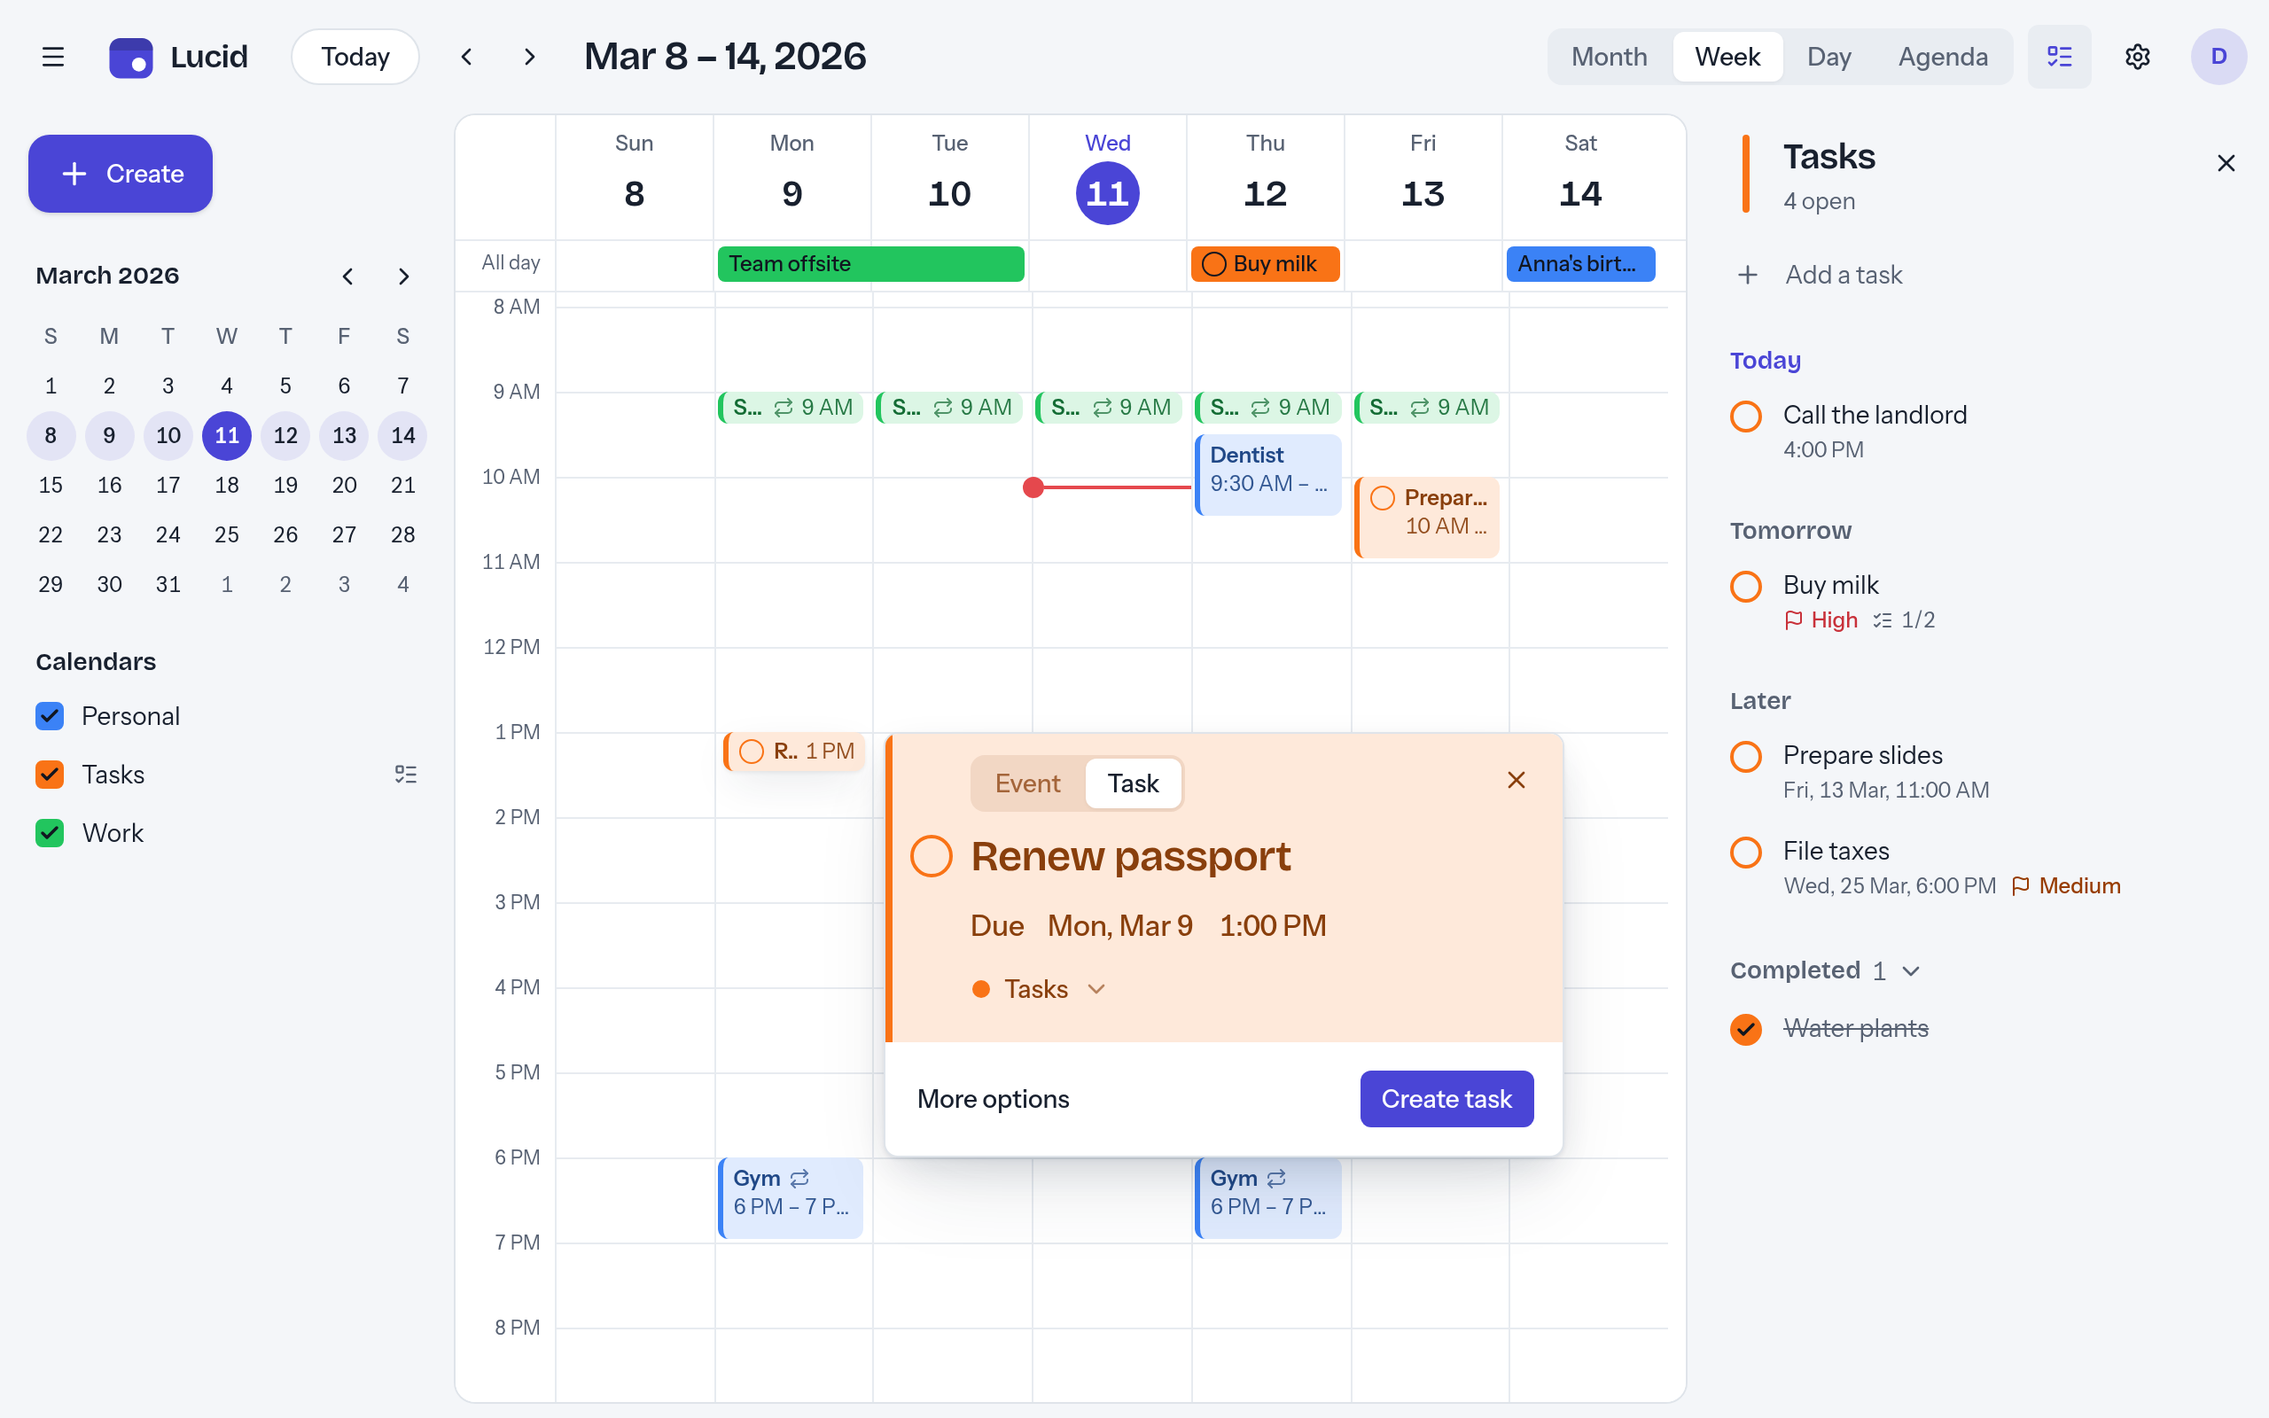
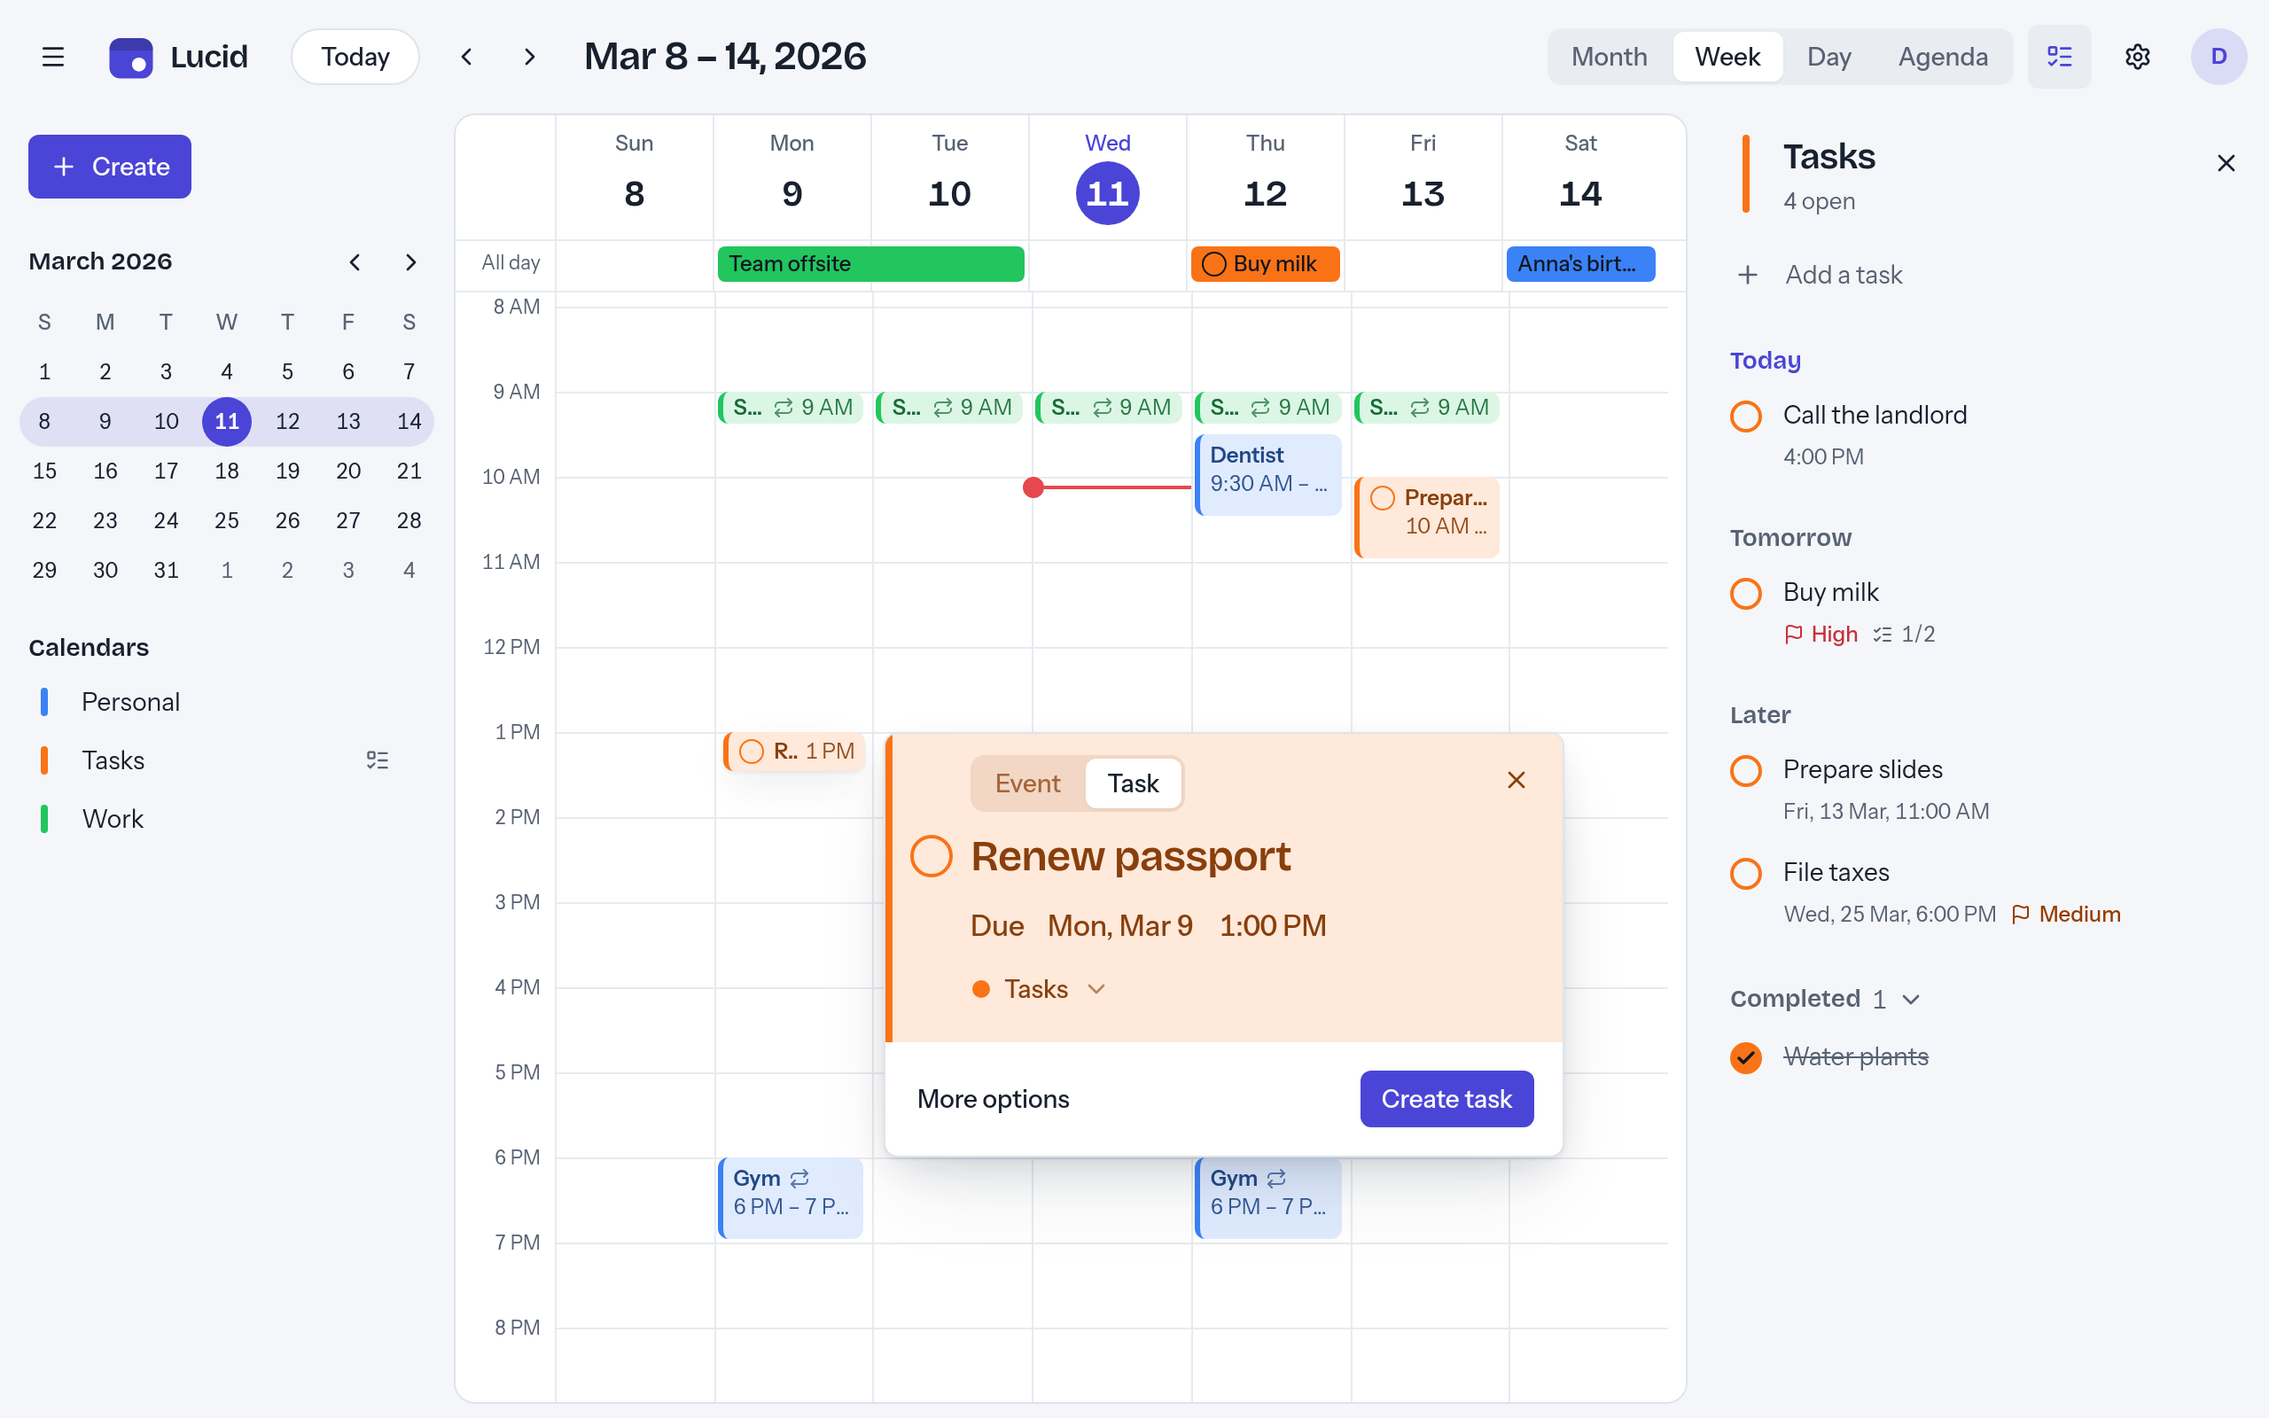
feat: redesign the calendar sidebar around each calendar's bar and the visible week
A calendar in the list leads with the bar its events carry in the grid,
in the column of the task checks, instead of a filled checkbox. A hidden
calendar fades its bar and name and shows a crossed-out eye, which a
visible one previews on hover; the toggle stays a native checkbox.

The mini month draws the visible week as one band whose caps wrap its
first and last day, and a single day in the day view as a circle.

Create is a regular button without a shadow, aligned with the rest of
the sidebar, and announces its key c.

diff --git a/web/src/components/layout/MiniMonth.tsx b/web/src/components/layout/MiniMonth.tsx
@@ -1,4 +1,4 @@
-import { addDays, addMonths, format, isSameDay, isSameMonth, isWithinInterval, startOfMonth } from 'date-fns'
+import { addDays, addMonths, format, isSameDay, isSameMonth, startOfMonth } from 'date-fns'
 import { ChevronLeftIcon, ChevronRightIcon } from 'lucide-react'
 import { useRef, useState, type KeyboardEvent } from 'react'
 import { flushSync } from 'react-dom'
@@ -9,6 +9,21 @@ import { weekdayNames, type FormatPrefs } from '@/lib/format'
 import { cn } from '@/lib/utils'
 
 const ARROW_STEPS: Record<string, number> = { ArrowLeft: -1, ArrowRight: 1, ArrowUp: -7, ArrowDown: 7 }
+
+type BandPart = 'start' | 'middle' | 'end' | 'single'
+
+/** A day's part of the band that marks the visible range in its week row, or undefined outside it. */
+function bandPart(week: Date[], i: number, range: DateRange | null): BandPart | undefined {
+  const inRange = (d: Date | undefined) => d !== undefined && range !== null && d >= range.start && d < range.end
+  if (!inRange(week[i])) return undefined
+  const first = !inRange(week[i - 1])
+  const last = !inRange(week[i + 1])
+  return first && last ? 'single' : first ? 'start' : last ? 'end' : 'middle'
+}
+
+// The band's caps wrap the circle of its first and last day (size-7, centered in the cell), so it starts and ends there.
+const BAND =
+  'flex justify-center data-[range]:bg-primary/12 data-[range=start]:justify-start data-[range=end]:justify-end data-[range=start]:ml-[calc(50%-0.875rem)] data-[range=start]:rounded-l-full data-[range=end]:mr-[calc(50%-0.875rem)] data-[range=end]:rounded-r-full data-[range=single]:mx-auto data-[range=single]:w-7 data-[range=single]:rounded-full'
 
 /**
  * Small month calendar: navigation in the sidebar, date picker in the event
@@ -25,7 +40,7 @@ export function MiniMonth({
   /** The chosen day (the view's date in the sidebar). */
   date: Date
   now: Date
-  /** Highlighted days (the visible week/day), or null. */
+  /** The visible week or day, drawn as one band like an event across its days; or null. */
   range: DateRange | null
   prefs: FormatPrefs
   /** Which day gets the solid mark: today (navigation) or the chosen day (picker). */
@@ -101,35 +116,35 @@ export function MiniMonth({
         <tbody>
           {weeks.map((week) => (
             <tr key={week[0] ? dayKey(week[0]) : 'w'}>
-              {week.map((d) => {
+              {week.map((d, i) => {
                 const today = isSameDay(d, now)
                 const chosen = isSameDay(d, date)
                 const solid = emphasis === 'today' ? today : chosen
-                const selected = range !== null && isWithinInterval(d, { start: range.start, end: new Date(range.end.getTime() - 1) })
                 return (
                   <td key={dayKey(d)} className="p-0">
-                    <button
-                      type="button"
-                      data-day={dayKey(d)}
-                      tabIndex={isSameDay(d, tabStop) ? 0 : -1}
-                      onKeyDown={onKeyDown}
-                      onClick={() => {
-                        setActive(d)
-                        onSelect(d)
-                      }}
-                      aria-label={format(d, 'PPPP', { locale: prefs.locale })}
-                      aria-current={today ? 'date' : undefined}
-                      aria-pressed={chosen}
-                      className={cn(
-                        'tabular mx-auto flex size-7 items-center justify-center rounded-full outline-none hover:bg-muted focus-visible:ring-2 focus-visible:ring-ring',
-                        !isSameMonth(d, shown) && 'text-muted-foreground',
-                        selected && !solid && 'bg-primary/10 font-medium text-foreground',
-                        today && !solid && 'font-semibold text-primary',
-                        solid && 'bg-primary font-semibold text-primary-foreground hover:bg-primary/90',
-                      )}
-                    >
-                      {format(d, 'd')}
-                    </button>
+                    <div data-range={bandPart(week, i, range)} className={BAND}>
+                      <button
+                        type="button"
+                        data-day={dayKey(d)}
+                        tabIndex={isSameDay(d, tabStop) ? 0 : -1}
+                        onKeyDown={onKeyDown}
+                        onClick={() => {
+                          setActive(d)
+                          onSelect(d)
+                        }}
+                        aria-label={format(d, 'PPPP', { locale: prefs.locale })}
+                        aria-current={today ? 'date' : undefined}
+                        aria-pressed={chosen}
+                        className={cn(
+                          'tabular flex size-7 items-center justify-center rounded-full outline-none hover:bg-muted focus-visible:ring-2 focus-visible:ring-ring',
+                          !isSameMonth(d, shown) && 'text-muted-foreground',
+                          today && !solid && 'font-semibold text-primary',
+                          solid && 'bg-primary font-semibold text-primary-foreground hover:bg-primary/90',
+                        )}
+                      >
+                        {format(d, 'd')}
+                      </button>
+                    </div>
                   </td>
                 )
               })}

diff --git a/web/src/components/layout/CalendarList.tsx b/web/src/components/layout/CalendarList.tsx
@@ -1,12 +1,16 @@
-import { CheckIcon, ListTodoIcon, LockIcon, type LucideIcon } from 'lucide-react'
+import { EyeOffIcon, ListTodoIcon, LockIcon, type LucideIcon } from 'lucide-react'
 import { useTranslation } from 'react-i18next'
 import { Spinner } from '@/components/ui/spinner'
 import { Tooltip, TooltipContent, TooltipTrigger } from '@/components/ui/tooltip'
 import { useCalendars } from '@/hooks/queries'
-import { readableTextColor } from '@/lib/color'
+import { cn } from '@/lib/utils'
 import { useSettings } from '@/stores/settings'
 
-/** Calendar list with color swatches and show/hide toggles (FR-04..06). */
+/*
+ * Calendar list with show/hide toggles (FR-04..06). A calendar leads with the
+ * bar its events carry in the grid; a hidden one fades its bar and name and
+ * shows the crossed-out eye, which a visible one previews on hover.
+ */
 export function CalendarList() {
   const { t } = useTranslation()
   const { data: calendars = [], isLoading, isError, refetch } = useCalendars()
@@ -14,7 +18,7 @@ export function CalendarList() {
   const toggle = useSettings((s) => s.toggleCalendar)
 
   return (
-    <section aria-labelledby="calendars-heading" className="px-3">
+    <section aria-labelledby="calendars-heading" className="px-2">
       <h2 id="calendars-heading" className="px-2 pb-1 font-display text-sm font-semibold">
         {t('calendars.title')}
       </h2>
@@ -39,7 +43,7 @@ export function CalendarList() {
           const visible = !hidden.includes(c.id)
           return (
             <li key={c.id}>
-              <label className="group flex cursor-pointer items-center gap-2.5 rounded-md px-2 py-1.5 text-sm hover:bg-muted has-[:focus-visible]:ring-2 has-[:focus-visible]:ring-ring">
+              <label className="group grid cursor-pointer grid-cols-[1.125rem_minmax(0,1fr)_auto] items-center gap-x-3 rounded-md px-2 py-1.5 text-sm hover:bg-muted has-[:focus-visible]:ring-2 has-[:focus-visible]:ring-ring">
                 <input
                   type="checkbox"
                   className="peer sr-only"
@@ -49,16 +53,25 @@ export function CalendarList() {
                   }}
                   data-testid={`calendar-toggle-${c.id}`}
                 />
-                <span
-                  aria-hidden
-                  className="flex size-4 shrink-0 items-center justify-center rounded-[4px] border-2"
-                  style={{ borderColor: c.color, backgroundColor: visible ? c.color : 'transparent' }}
-                >
-                  {visible && <CheckIcon className="size-3" strokeWidth={3.5} style={{ color: readableTextColor(c.color) }} />}
+                {/* In the column of the task checks, like the bar of the list in the task sidebar. */}
+                <span aria-hidden className="flex justify-center">
+                  <span
+                    className={cn('h-4 w-1 rounded-full transition-opacity', !visible && 'opacity-35')}
+                    style={{ backgroundColor: c.color }}
+                  />
                 </span>
-                <span className="min-w-0 flex-1 truncate">{c.name}</span>
-                {!c.supportsEvents && <StatusIcon icon={ListTodoIcon} label={t('calendars.tasksOnly')} />}
-                {c.readOnly && <StatusIcon icon={LockIcon} label={t('calendars.readOnly')} />}
+                <span className={cn('truncate', !visible && 'text-muted-foreground')}>{c.name}</span>
+                <span className="flex items-center gap-1.5">
+                  {!c.supportsEvents && <StatusIcon icon={ListTodoIcon} label={t('calendars.tasksOnly')} />}
+                  {c.readOnly && <StatusIcon icon={LockIcon} label={t('calendars.readOnly')} />}
+                  <EyeOffIcon
+                    aria-hidden
+                    className={cn(
+                      'size-3.5 shrink-0 text-muted-foreground',
+                      visible && 'opacity-0 group-hover:opacity-60 group-has-[:focus-visible]:opacity-60',
+                    )}
+                  />
+                </span>
               </label>
             </li>
           )

diff --git a/web/src/components/layout/MiniMonth.test.tsx b/web/src/components/layout/MiniMonth.test.tsx
@@ -45,4 +45,24 @@ describe('MiniMonth', () => {
     expect(chosen.className).toContain('bg-primary')
     expect(today.className).not.toContain('bg-primary')
   })
+
+  // The band's position on a day, read from the element behind its button.
+  const band = (name: string) => screen.getByRole('button', { name }).parentElement?.dataset.range
+
+  it('draws the visible week as one band from its first to its last day', () => {
+    const range = { start: new Date(2026, 2, 8), end: new Date(2026, 2, 15) }
+    render(<MiniMonth date={now} now={now} range={range} prefs={prefs} onSelect={vi.fn()} />)
+    expect(band('Saturday, March 7th, 2026')).toBeUndefined()
+    expect(band('Sunday, March 8th, 2026')).toBe('start')
+    expect(band('Wednesday, March 11th, 2026')).toBe('middle')
+    expect(band('Saturday, March 14th, 2026')).toBe('end')
+    expect(band('Sunday, March 15th, 2026')).toBeUndefined()
+  })
+
+  it('draws a single day as a band of its own', () => {
+    const range = { start: new Date(2026, 2, 20), end: new Date(2026, 2, 21) }
+    render(<MiniMonth date={new Date(2026, 2, 20)} now={now} range={range} prefs={prefs} onSelect={vi.fn()} />)
+    expect(band('Friday, March 20th, 2026')).toBe('single')
+    expect(band('Saturday, March 21st, 2026')).toBeUndefined()
+  })
 })

diff --git a/web/src/components/layout/CalendarList.test.tsx b/web/src/components/layout/CalendarList.test.tsx
@@ -3,9 +3,26 @@ import userEvent from '@testing-library/user-event'
 import { describe, expect, it, vi } from 'vitest'
 import { calendar, jsonResponse } from '@/test/fixtures'
 import { renderWithProviders } from '@/test/render'
+import { useSettings } from '@/stores/settings'
 import { CalendarList } from './CalendarList'
 
 describe('CalendarList', () => {
+  it('hides and shows a calendar from a click on its name', async () => {
+    useSettings.setState({ hiddenCalendars: [] })
+    vi.spyOn(globalThis, 'fetch').mockResolvedValue(jsonResponse(200, { calendars: [calendar({ id: 'work', name: 'Work' })] }))
+    const user = userEvent.setup()
+    renderWithProviders(<CalendarList />)
+    const toggle = await screen.findByRole('checkbox', { name: 'Work' })
+    expect(toggle).toBeChecked()
+
+    await user.click(screen.getByText('Work'))
+    expect(toggle).not.toBeChecked()
+    expect(useSettings.getState().hiddenCalendars).toEqual(['work'])
+    await user.click(screen.getByText('Work'))
+    expect(toggle).toBeChecked()
+    expect(useSettings.getState().hiddenCalendars).toEqual([])
+  })
+
   it('marks calendars that only hold tasks', async () => {
     vi.spyOn(globalThis, 'fetch').mockResolvedValue(
       jsonResponse(200, {

diff --git a/web/src/components/layout/Sidebar.tsx b/web/src/components/layout/Sidebar.tsx
@@ -27,18 +27,19 @@ export function Sidebar({
   return (
     <div className="flex h-full flex-col gap-5 overflow-y-auto pt-3 pb-6 scrollbar-thin">
       <div className="px-4">
+        {/* The key is announced, not shown in a tooltip: focus lands here when the drawer opens and when the editor closes. */}
         <Button
-          size="lg"
-          className="h-11 rounded-xl px-5 shadow-sm"
+          className="pr-4"
+          aria-keyshortcuts="c"
           onClick={() => {
             openEditor({ mode: 'create', draft: newDraft(date, now) })
           }}
         >
-          <PlusIcon className="size-5" aria-hidden />
+          <PlusIcon aria-hidden />
           {t('event.create')}
         </Button>
       </div>
-      <nav aria-label={t('sidebar.miniCalendar')} className="px-3">
+      <nav aria-label={t('sidebar.miniCalendar')} className="px-2">
         <MiniMonth
           date={date}
           now={now}

diff --git a/web/src/components/layout/Sidebar.test.tsx b/web/src/components/layout/Sidebar.test.tsx
@@ -1,0 +1,19 @@
+import { screen } from '@testing-library/react'
+import { enUS } from 'date-fns/locale/en-US'
+import { describe, expect, it, vi } from 'vitest'
+import { type FormatPrefs } from '@/lib/format'
+import { jsonResponse } from '@/test/fixtures'
+import { renderWithProviders } from '@/test/render'
+import { Sidebar } from './Sidebar'
+
+const prefs: FormatPrefs = { tag: 'en-US', locale: enUS, hourCycle: '12h', weekStartsOn: 0 }
+const now = new Date(2026, 2, 11, 10)
+
+describe('Sidebar', () => {
+  it('announces c as the key of Create', () => {
+    vi.spyOn(globalThis, 'fetch').mockResolvedValue(jsonResponse(200, { calendars: [] }))
+    renderWithProviders(<Sidebar date={now} now={now} range={null} prefs={prefs} />)
+    const create = screen.getByRole('button', { name: 'Create' })
+    expect(create).toHaveAttribute('aria-keyshortcuts', 'c')
+  })
+})
